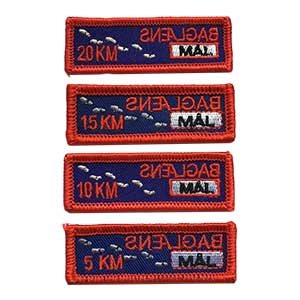
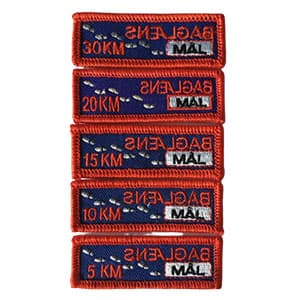
update baglaens with 30km image and description.

diff --git a/_m/baglaens.md b/_m/baglaens.md
@@ -9,9 +9,9 @@ coverimage: cover-hike.jpg
 image: baglaens.jpg
 buylink: https://www.facebook.com/groups/spejdermaerker/permalink/1906294549602585/
 ---
-5 - 10 - 15 eller 20 km 
-Da der er mange som går baglæns på vores årlige vandreweekend, har vi valgt at lave et specielt mærke til det. 
+5, 10, 15, 20 eller 30 km
+Da der er mange som går baglæns på vores årlige vandreweekend, har vi valgt at lave et specielt mærke til det.
 
 ### Regler
 
-Der skal være én med, der går forlæns af sikkerhedsmæssige årsager i trafikken.  
+Der skal være én med, der går forlæns af sikkerhedsmæssige årsager i trafikken.
